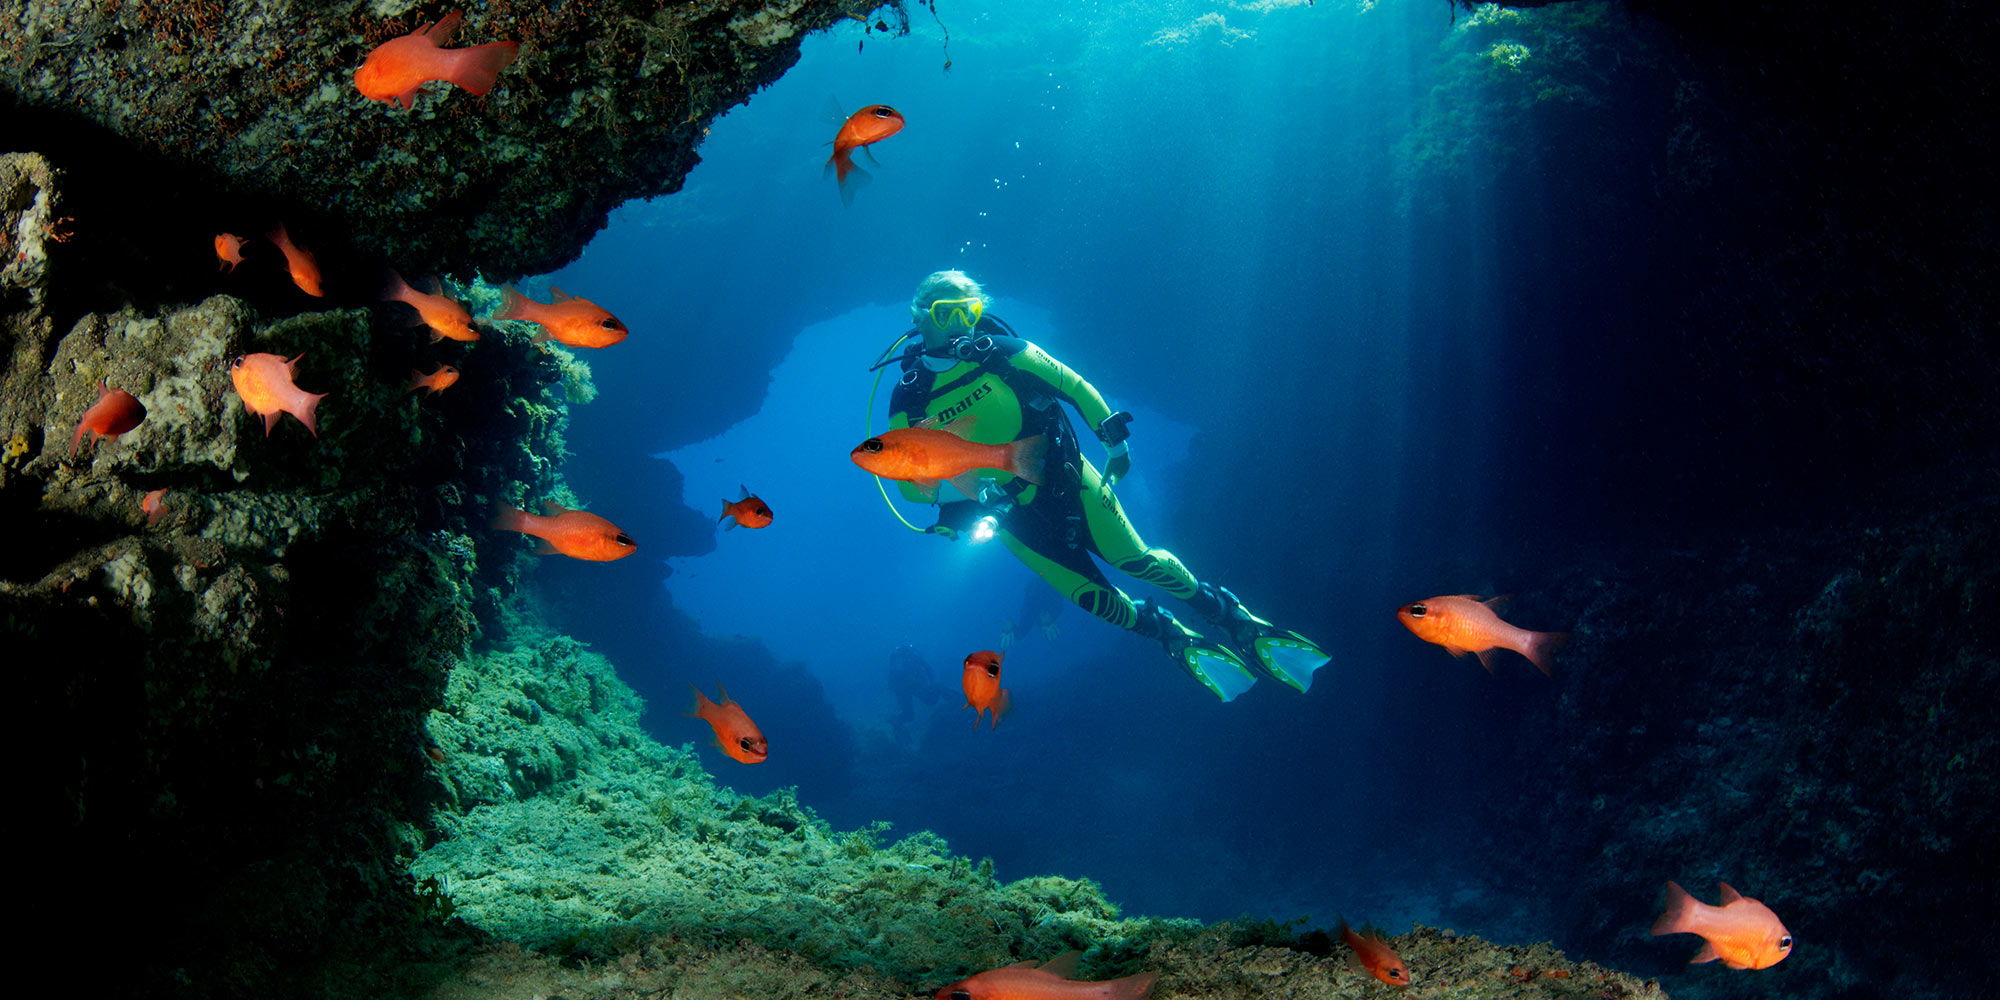
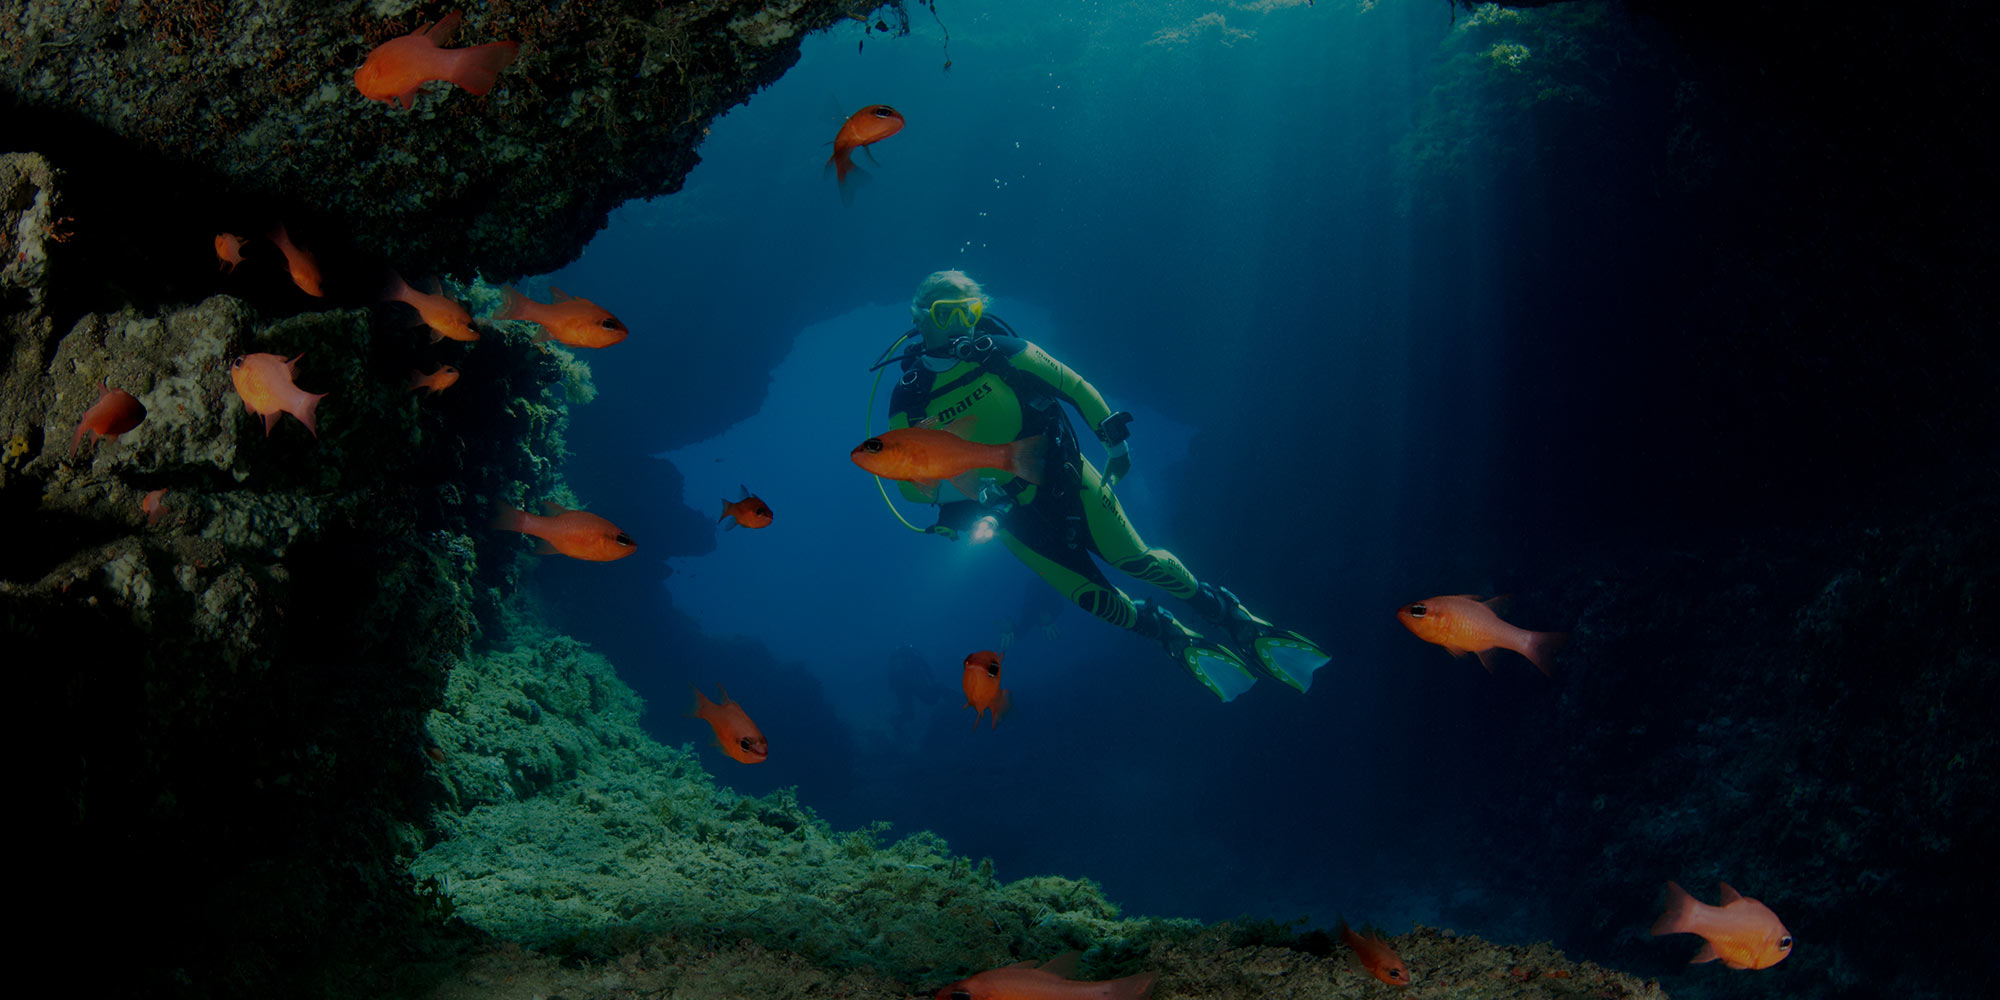
added content

diff --git a/_layouts/single-page.html b/_layouts/single-page.html
@@ -14,15 +14,16 @@
 
 
 
+
     <!-- intro-->
-    <div class=" vpad--xl bg--light " >
-      <div class="container">
-        <div class="width width--xl text--center text--xxl   ">
+    <div class=" vpad--xl bg--light" style="background-image: url('{{site.img}}/icons/pattern.png');">
+      <div class="container ">
+        <div class="width width--xl text--center text--xxl text--bold" >
 
           <div class="space--sm "></div>
 
 
-          <p>Lorem ipsum dolor sit amet, consectetur adipiscing elit, sed do eiusmod tempor incididunt ut labore et dolore magna aliqua. Ut enim ad minim veniam, quis nostrud exercitation ullamco laboris nisi ut aliquip ex ea commodo consequat. Duis aute irure dolor in reprehenderit in voluptate velit esse cillum dolore eu fugiat nulla pariatur.</p>
+          <p>Auf dem maltesischen Archipel treffen die Kulturen der Römer, Mauren, Johanniter, Franzosen und Briten auf sizilianische Küche und türkisfarbene Lagunen – und versprechen mediterranes Urlaubsglück für jeden Geschmack. Entdecken Sie die besten Tipps für Malta, die Kulturhauptstadt 2018 Valletta sowie die Inseln Gozo und Comino.</p>
         </div>
       </div>
     </div>
@@ -32,26 +33,31 @@
       <!-- loops through section file for page content -->
       {% for section in site.data.sections %}
           <div id="{{section.id}}" class="bv-parallax js-nav-section vpad--xxl" style="background-image: url('{{site.img}}/content/{{section.id}}.jpg');" >
-            <div class="container ">
-              <div class="row row--valign-center row--gutters-md row--6-6 text--xxl text--white text--bold">
-                <div class="col--9 boxpad--xl">
-                  <div class=" title title--xl bv-headline-divider bv-lineheight" >{{section.title}}</div>
-                  <div class="space--xs"></div>
-                  <p>{{section.description}} </p>
+            <div class="container">
+              <div class="  text--xxl text--white text--bold">
+
+                <div class="bob ">
+                  <div class="bob__text">
+                    <h3 class="title title--xl bv-headline-divider bv-lineheight ">{{section.title}}</h3>
+                    <div class="space--md"></div>
+                    <div class="  text--xxl text--white ">{{section.description}} </div>
+                    <div class="space--lg"></div>
+
+                  </div>
                 </div>
-                <div class="col--3">
-                  <div class="" style=""></div>
-                </div>
+
               </div>
-              <div class="space--xl"></div>
-              <div class="row row--gutters-md  " style="height:480px; overflow-y: auto; padding-bottom:30px;">
+            <div class="space--xl"></div>
+              <div class="row row--gutters-md  ">
+                <div class="bv-horizontal-scroll" style="">
 
                   {% for poi in section.pois.items %}
 
-                  <div id="tracking-poi-{{poi.id}}" class="col col--lg-6 col--xl-4 text--center js-open-modal" data-open-modal="{{poi.id}}">
-                    <div class="bg--white " style="cursor: pointer;" >
-                      <div class="highlight__image bv-bg-img bg-img bg-img--16-9" style="background-image:url('{{site.img}}/content/gallery/{{poi.id}}.jpg'); "></div>
-                      <div class="boxpad--md " >
+                    <div id="tracking-poi-{{poi.id}}" class="bv-card text--center js-open-modal" data-open-modal="{{poi.id}}">
+                    <div class="bg--white " style="cursor: pointer;" ></div>
+
+                      <div class="highlight__image bv-bg-img bg-img bg-img--16-9 " style="background-image:url('{{site.img}}/content/gallery/{{poi.id}}.jpg');"></div>
+                      <div class="boxpad--md bg--light " >
                           <div class="space--xxs"></div>
                           <div class="text text--xxxl text--normal text--upper">{{poi.title}}</div>
                           <div class="space--xxs"></div>
@@ -60,13 +66,12 @@
                           <div class="text text--xl text--bold text--m-red">Weiterlesen</div>
                           <div class="space--xxs"></div>
                       </div>
-                    </div>
-                  </div>
-
-              {% endfor %}
-
 
                 </div>
+              {% endfor %}
+                </div>
+
+              </div>
 
             </div>
           </div>

diff --git a/_assets/sass/_styles.scss b/_assets/sass/_styles.scss
@@ -26,10 +26,6 @@
 }
 
 
-
-
-
-
 /* ==========================================================================
     Dividers & Alignment
 ========================================================================== */
@@ -91,10 +87,56 @@
        overflow: hidden; }
    }
 
-
    .bv-clearfix {
      overflow: auto;
    }
+
+.bv-horizontal-scroll{
+  display: flex;
+  min-width: 95%;
+  margin-left: 20px;
+  //min-height: 300px;
+  overflow-x: auto;
+  //background-color: #000;
+
+//  @include bp($sm){ margin-left: 25px; }
+  @include bp($lg){ margin-left: 30px; }
+/*  @include bp($md){ margin-left: 30px;
+  min-width: 100%;}*/
+
+}
+.bv-horizontal-scroll::-webkit-scrollbar {
+  display: none;
+}
+
+/*$xxxl: 1200px;
+$xxl:  970px;
+$xl:   800px;
+$lg:   650px;
+$md:   450px;
+$sm:   330px;*/
+
+.bv-card {
+
+  min-width: 100%;
+  //margin-right: 15px;
+  padding-right: 15px;
+
+ @include bp($md){ min-width: 50%; }
+ @include bp($xl){ min-width: 33.5%; }
+/* @include bp($md){ min-width: 30%; }
+ @include bp($lg){ min-width: 30%; }*/
+/*
+  @include bp($xxl){ min-width: 42vh; }
+  @include bp($xxxl){ min-width: 35vh; }*/
+
+}
+
+$border-radius: $s0/1.5;
+
+.bv-border-radius-top{ border-top-left-radius: $border-radius; border-top-right-radius: $border-radius;}
+
+.bv-border-radius-bottom{ border-bottom-left-radius: $border-radius; border-bottom-right-radius: $border-radius;}
 
    /* ==========================================================================
       Parallax & DRAWINGS

diff --git a/_includes/modal/sections.html b/_includes/modal/sections.html
@@ -10,13 +10,13 @@
     {% for section in site.data.sections %}
       {% for item in section.pois.items %}
 
-      <div class="modal modal--series is-closed" data-modal-id="{{item.id}}" data-modal-group="{{section.id}}">
-          <div class="js-close-modal modal__close "></div>
-          <div class="js-modal-nav modal__nav modal__nav--next " data-nav-direction="next"></div>
+      <div class="modal modal--series is-closed" data-modal-id="{{item.id}}" data-modal-group="{{section.id}}" >
+          <div class="js-close-modal modal__close " style="margin:44px 0px;"></div>
+          <div class="js-modal-nav modal__nav modal__nav--next "  data-nav-direction="next"></div>
           <div class="js-modal-nav modal__nav modal__nav--previous " data-nav-direction="previous"></div>
-          <div class="bg-img bg-img--16-9" style="background-image: url('{{site.img}}/content/gallery/{{item.id}}.jpg');"></div>
+          <div class="bg-img bg-img--16-9 " style="background-image: url('{{site.img}}/content/gallery/{{item.id}}.jpg');"></div>
           <div class="modal__content text--xl">
-            <div class="title title--md text--left text--m-red text--upper">{{item.title}}</div>
+            <div class="title title--md text--left text--m-red text--upper">{{item.title}} {{item.months}}</div>
             <div  class="space--xs"></div>
             <p>{{item.description}}</p>
             <div  class="space--xs"></div>

diff --git a/_assets/sass/grid/layouts/_bob.scss b/_assets/sass/grid/layouts/_bob.scss
@@ -1,12 +1,12 @@
 .bob {
 
   // bob breakpoint
-  $bp: $xxl;
+  $bp: $xl;
 
   // default styles
   display: flex;
   flex-direction: column;
-  align-items: center;
+  align-items: left;
   @include bp($bp) {
     flex-direction: row;
     &--swap { flex-direction: row-reverse; }
@@ -40,12 +40,12 @@
     width: 100%;
     max-width: $lg;
     @include bp($bp) {
-      width: 60%;
+      width: 30%;
       max-width: none;
     }
   }
   &__text {
-    @include bp($bp) { width: 40%; }
+    @include bp($bp) { width: 70%; }
     &--center {
       text-align: center;
       @include bp($bp){ text-align: left; }

diff --git a/_includes/page/banner.html b/_includes/page/banner.html
@@ -2,7 +2,7 @@
 
 
 
-<div class="banner">
+<div class="banner text--white">
   <div class="site-header__offset"></div>
   <div class="banner__bg bv-hero-panorama" ></div>
   <div class="banner__wrap">
@@ -15,7 +15,11 @@
         {% if page.banner.title-sub %}<h2 class="sub-title--lg">{{page.banner.title-sub}}</h2>{% endif %}
       </div>
     {% endif %}
+
+
   </div>
+
+
 
 
 

diff --git a/_assets/sass/components/_bg.scss b/_assets/sass/components/_bg.scss
@@ -3,6 +3,8 @@
 .bg {
   &--white { background-color: $white; }
   &--light { background-color: $grey-lightest; }
+  &--black  { background-color: $black; }
+  &--darker  { background-color: $grey-darkest; }
   &--dark  { background-color: $grey-dark; }
   &--img   { @include background-attributes; }
   &__fixed {

diff --git a/_assets/sass/page/_banner.scss b/_assets/sass/page/_banner.scss
@@ -6,7 +6,7 @@
   align-items: center;
   flex-direction: column;
   justify-content: flex-start;
-  height: 90%;
+  height: 95%;
   min-height: 450px;
   max-height: 700px;
   color: $white;

diff --git a/_pages/index.html b/_pages/index.html
@@ -7,6 +7,6 @@ nav-title: Überblick
 intro: this is my home page
 
 banner:
-  title-sup: Land des Meeres
+  title-sup: Insel der Vielfalt
   title: Malta
 ---

diff --git a/_includes/page/header.html b/_includes/page/header.html
@@ -1,3 +1,4 @@
 <header class="site-header">
   {% include nav/core.html %}
+  
 </header>
